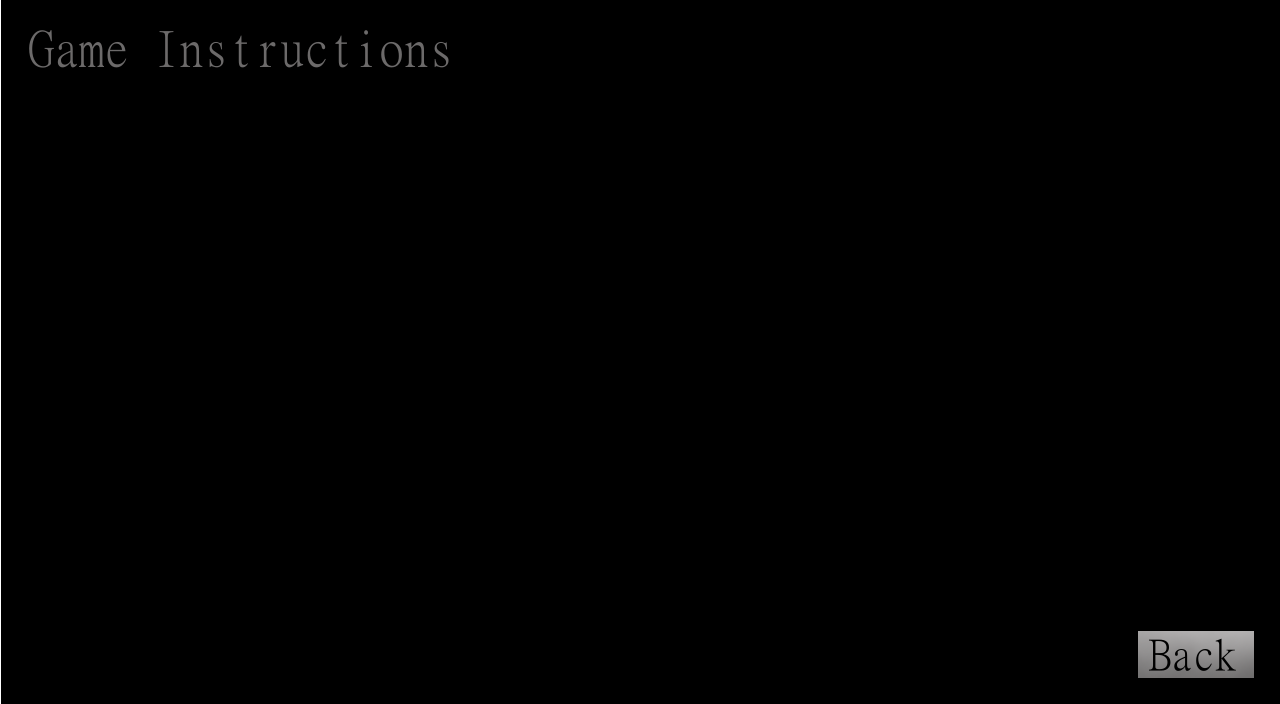
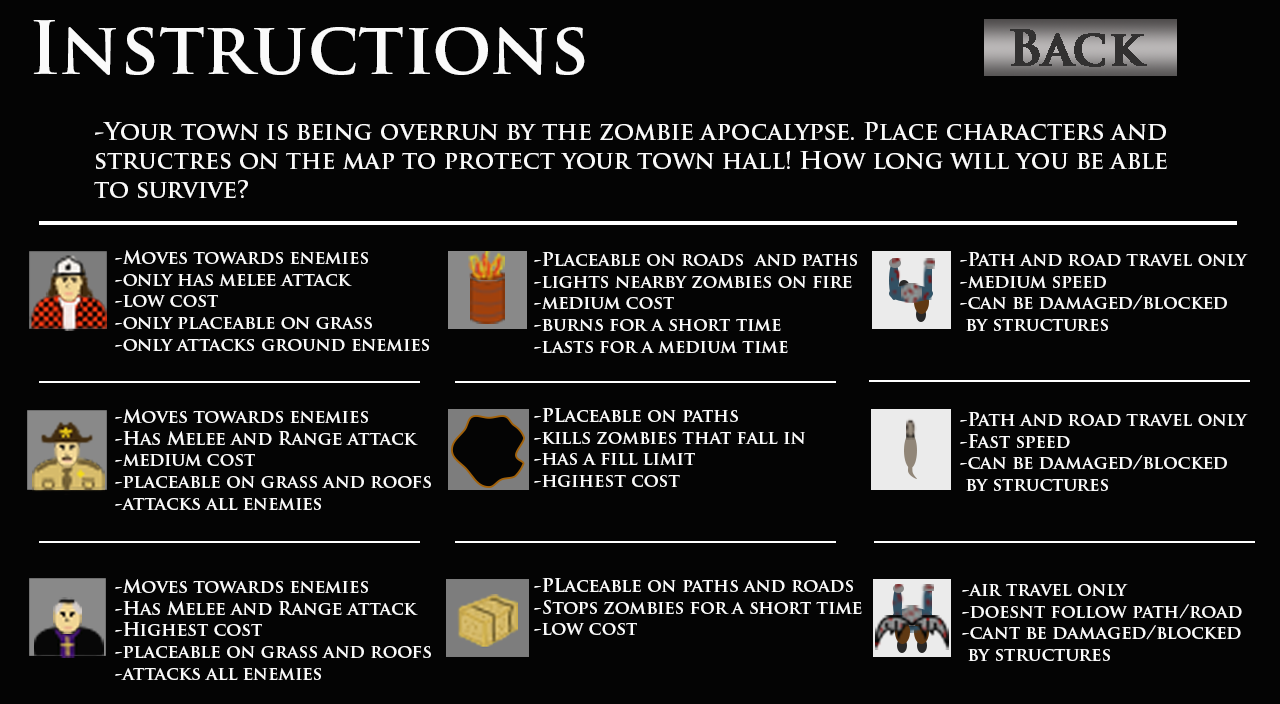
New Help Screen

diff --git a/ZombieTD/ZombieTD/ZombieTD/EngineConstants.cs b/ZombieTD/ZombieTD/ZombieTD/EngineConstants.cs
@@ -28,7 +28,7 @@ namespace ZombieTD
         //Framerate Settings
         public static bool DisableFrameRate = false;
         //Mouse XY Switch
-        public static bool ShowMouseXY = false;
+        public static bool ShowMouseXY = true;
         //Full Screen 
         public static bool FullScreen = false;
         #endregion
@@ -154,10 +154,10 @@ namespace ZombieTD
         #endregion
 
         #region Help Screen
-        public const int Button_Back_TopX = 1137;
-        public const int Button_Back_TopY = 630;
-        public const int Button_Back_BottomX = 1254;
-        public const int Button_Back__BottomY = 678;
+        public const int Button_Back_TopX = 983;
+        public const int Button_Back_TopY = 19;
+        public const int Button_Back_BottomX = 1174;
+        public const int Button_Back__BottomY = 76;
 
         public const int HelpMenuScreenTextureHeight = 704;
         public const int HelpMenuScreenTextureWidth = 1280;
